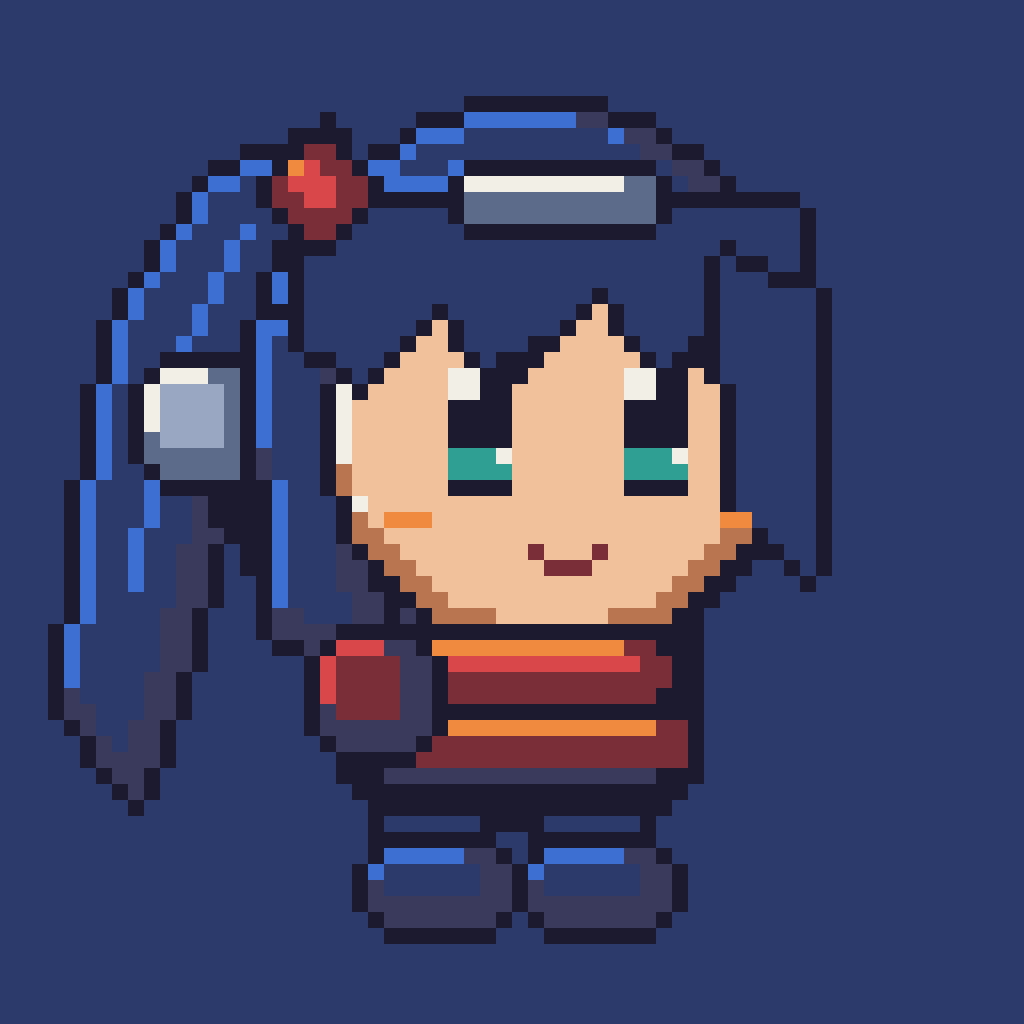
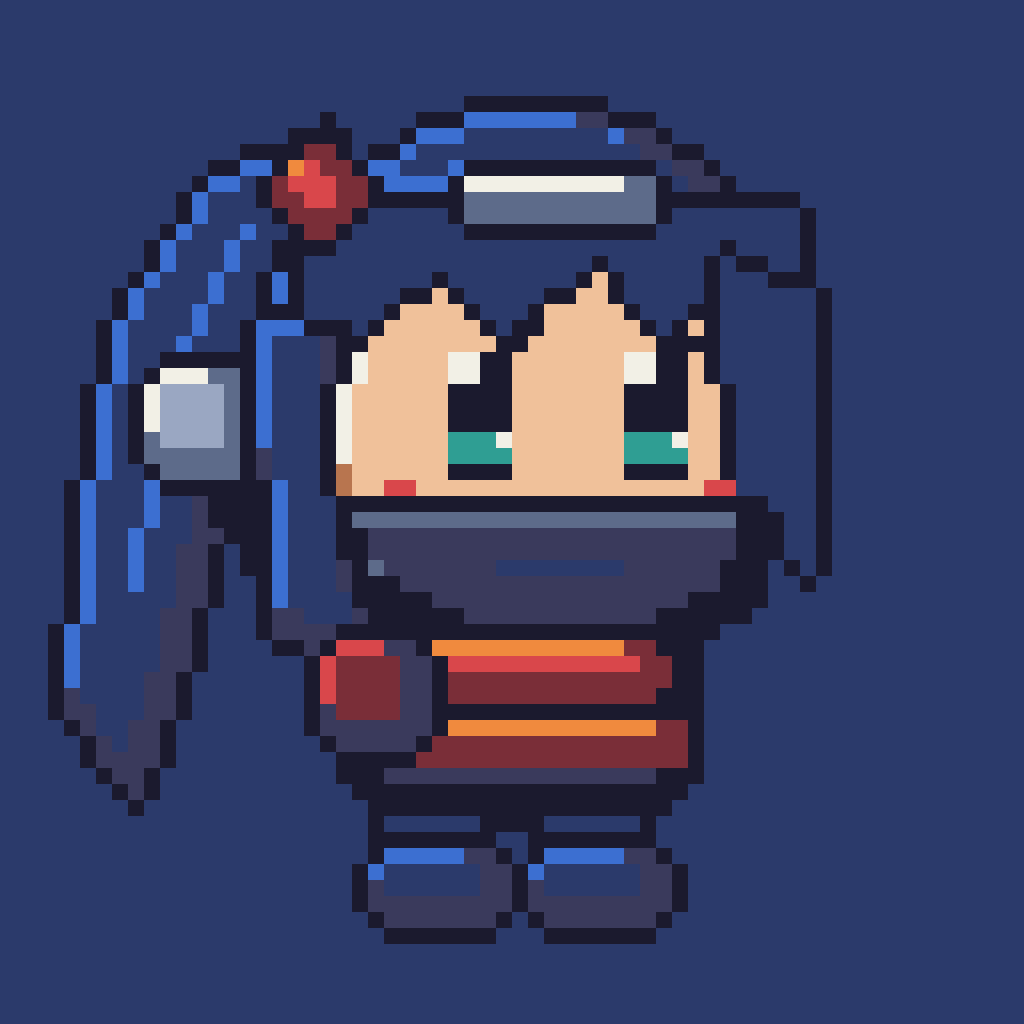
Shade wears a mask; smooth movement: camera follows on sim ticks, render capped at the sim rate
Claude-Session: https://claude.ai/code/session_01J8LgTLVYzThXjNSRVhWqep

Changed region(s): [[0.2812, 0.25, 0.7812, 0.625]]

diff --git a/tools/sprites/generate.py b/tools/sprites/generate.py
@@ -147,7 +147,7 @@ def legs(c: Canvas, pants, boots, step) -> list[int]:
 
 def flicker(step=None, t=0):
     """Shade, a kunoichi: long dark hair in a high ponytail that sways behind her, side-swept bangs, a steel
-    forehead plate, big lashed eyes and a little smile; fitted black shroud, red sash and scarf, ninjato on
+    forehead plate, big lashed eyes over a fitted mask; fitted black shroud, red sash and scarf, ninjato on
     her back."""
     low = Canvas()
     for x, dy in legs(low, SHADOW, NAVY, step):
@@ -166,20 +166,22 @@ def flicker(step=None, t=0):
     up.part(E((16, 5, 50, 38)), NAVY)  # hair around the head
     up.part(P([(16, 18), (21, 18), (23, 40), (17, 37)]), NAVY)  # long lock down the back of her neck
     up.part(E((21, 12, 47, 38)), SKIN)  # face
-    up.part(P([(19, 11), (49, 11), (49, 18), (45, 16), (41, 20), (37, 15), (31, 21), (27, 16), (22, 21), (19, 19)]),
+    up.part(P([(19, 11), (49, 11), (49, 16), (45, 14), (41, 18), (37, 13), (31, 18), (27, 14), (22, 18), (19, 17)]),
             NAVY, shade=False)  # side-swept bangs
     up.part(P([(45, 14), (50, 16), (50, 33), (46, 29)]), NAVY, shade=False)  # lock framing her face
     up.flat(L([(23, 9), (33, 8)], 1), BLUE)  # crown sheen
     up.part(R((29, 9, 40, 11)), STEEL)  # small forehead plate
     up.flat(R((34, 10, 35, 10)), STEEL_D)  # its engraving
     up.part(RR((17, 7, 22, 12), 2), RED)  # ribbon tying the ponytail
-    big_eyes(up, 21, (28, 39), TEAL, h=7)
+    big_eyes(up, 20, (28, 39), TEAL, h=7)
     if not KO:
         for x in (28, 39):  # lashes flick up and out at the top outer corner
-            up.flat(R((x + 3, 20, x + 4, 20)), OUTLINE)
-            up.dot(x + 5, 19, OUTLINE)
-    face(up, (24, 45, 30))
-    up.flat(L([(33, 32), (34, 33), (36, 33), (37, 32)], 1), MAROON)  # little smile
+            up.flat(R((x + 3, 19, x + 4, 19)), OUTLINE)
+            up.dot(x + 5, 18, OUTLINE)
+    up.part(P([(22, 30), (47, 30), (46, 35), (40, 38), (29, 38), (23, 35)]), SHADOW)  # fitted mask over nose and mouth
+    up.flat(L([(31, 33), (38, 33)], 1), NAVY)  # its fold
+    up.flat(R((24, 28, 25, 28)), RED)  # blush peeking above it
+    up.flat(R((44, 28, 45, 28)), RED)
     up.part(RR((24, 38, 41, 41), 2), RED)  # scarf, under the chin
     up.part(RR((20, 38, 26, 44), 2), MAROON)  # scarf knot
     return low, up
